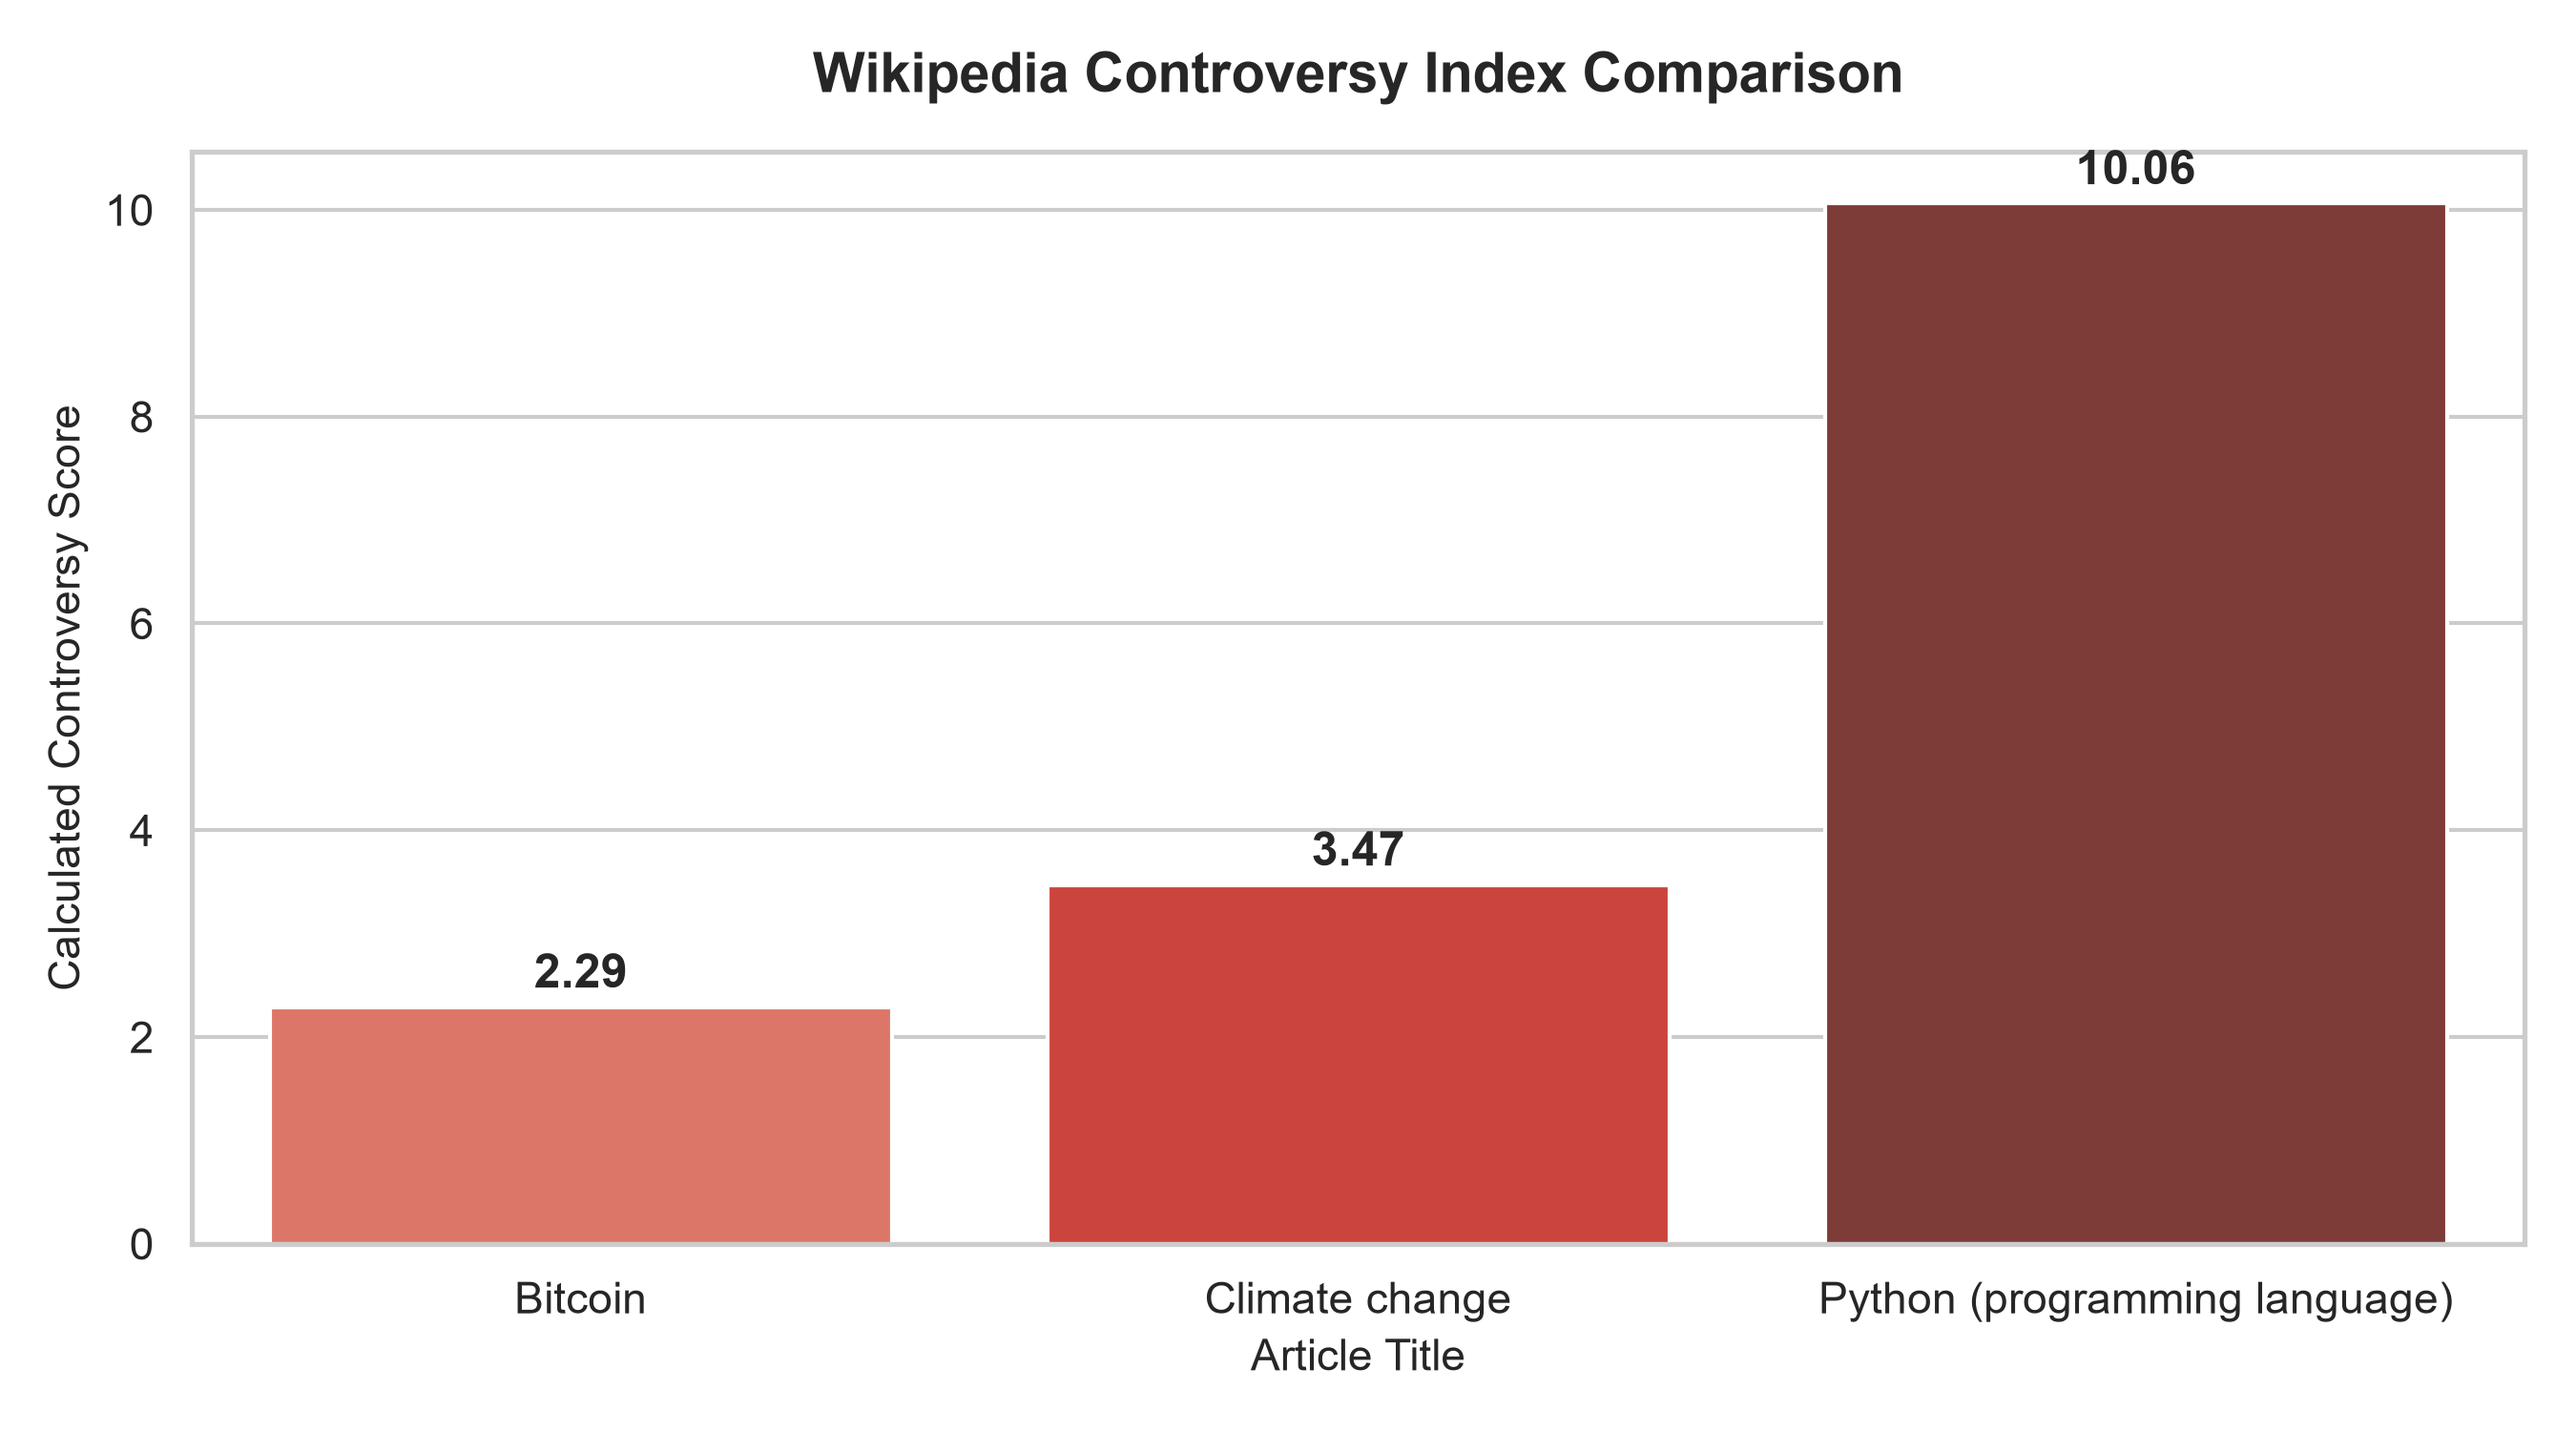
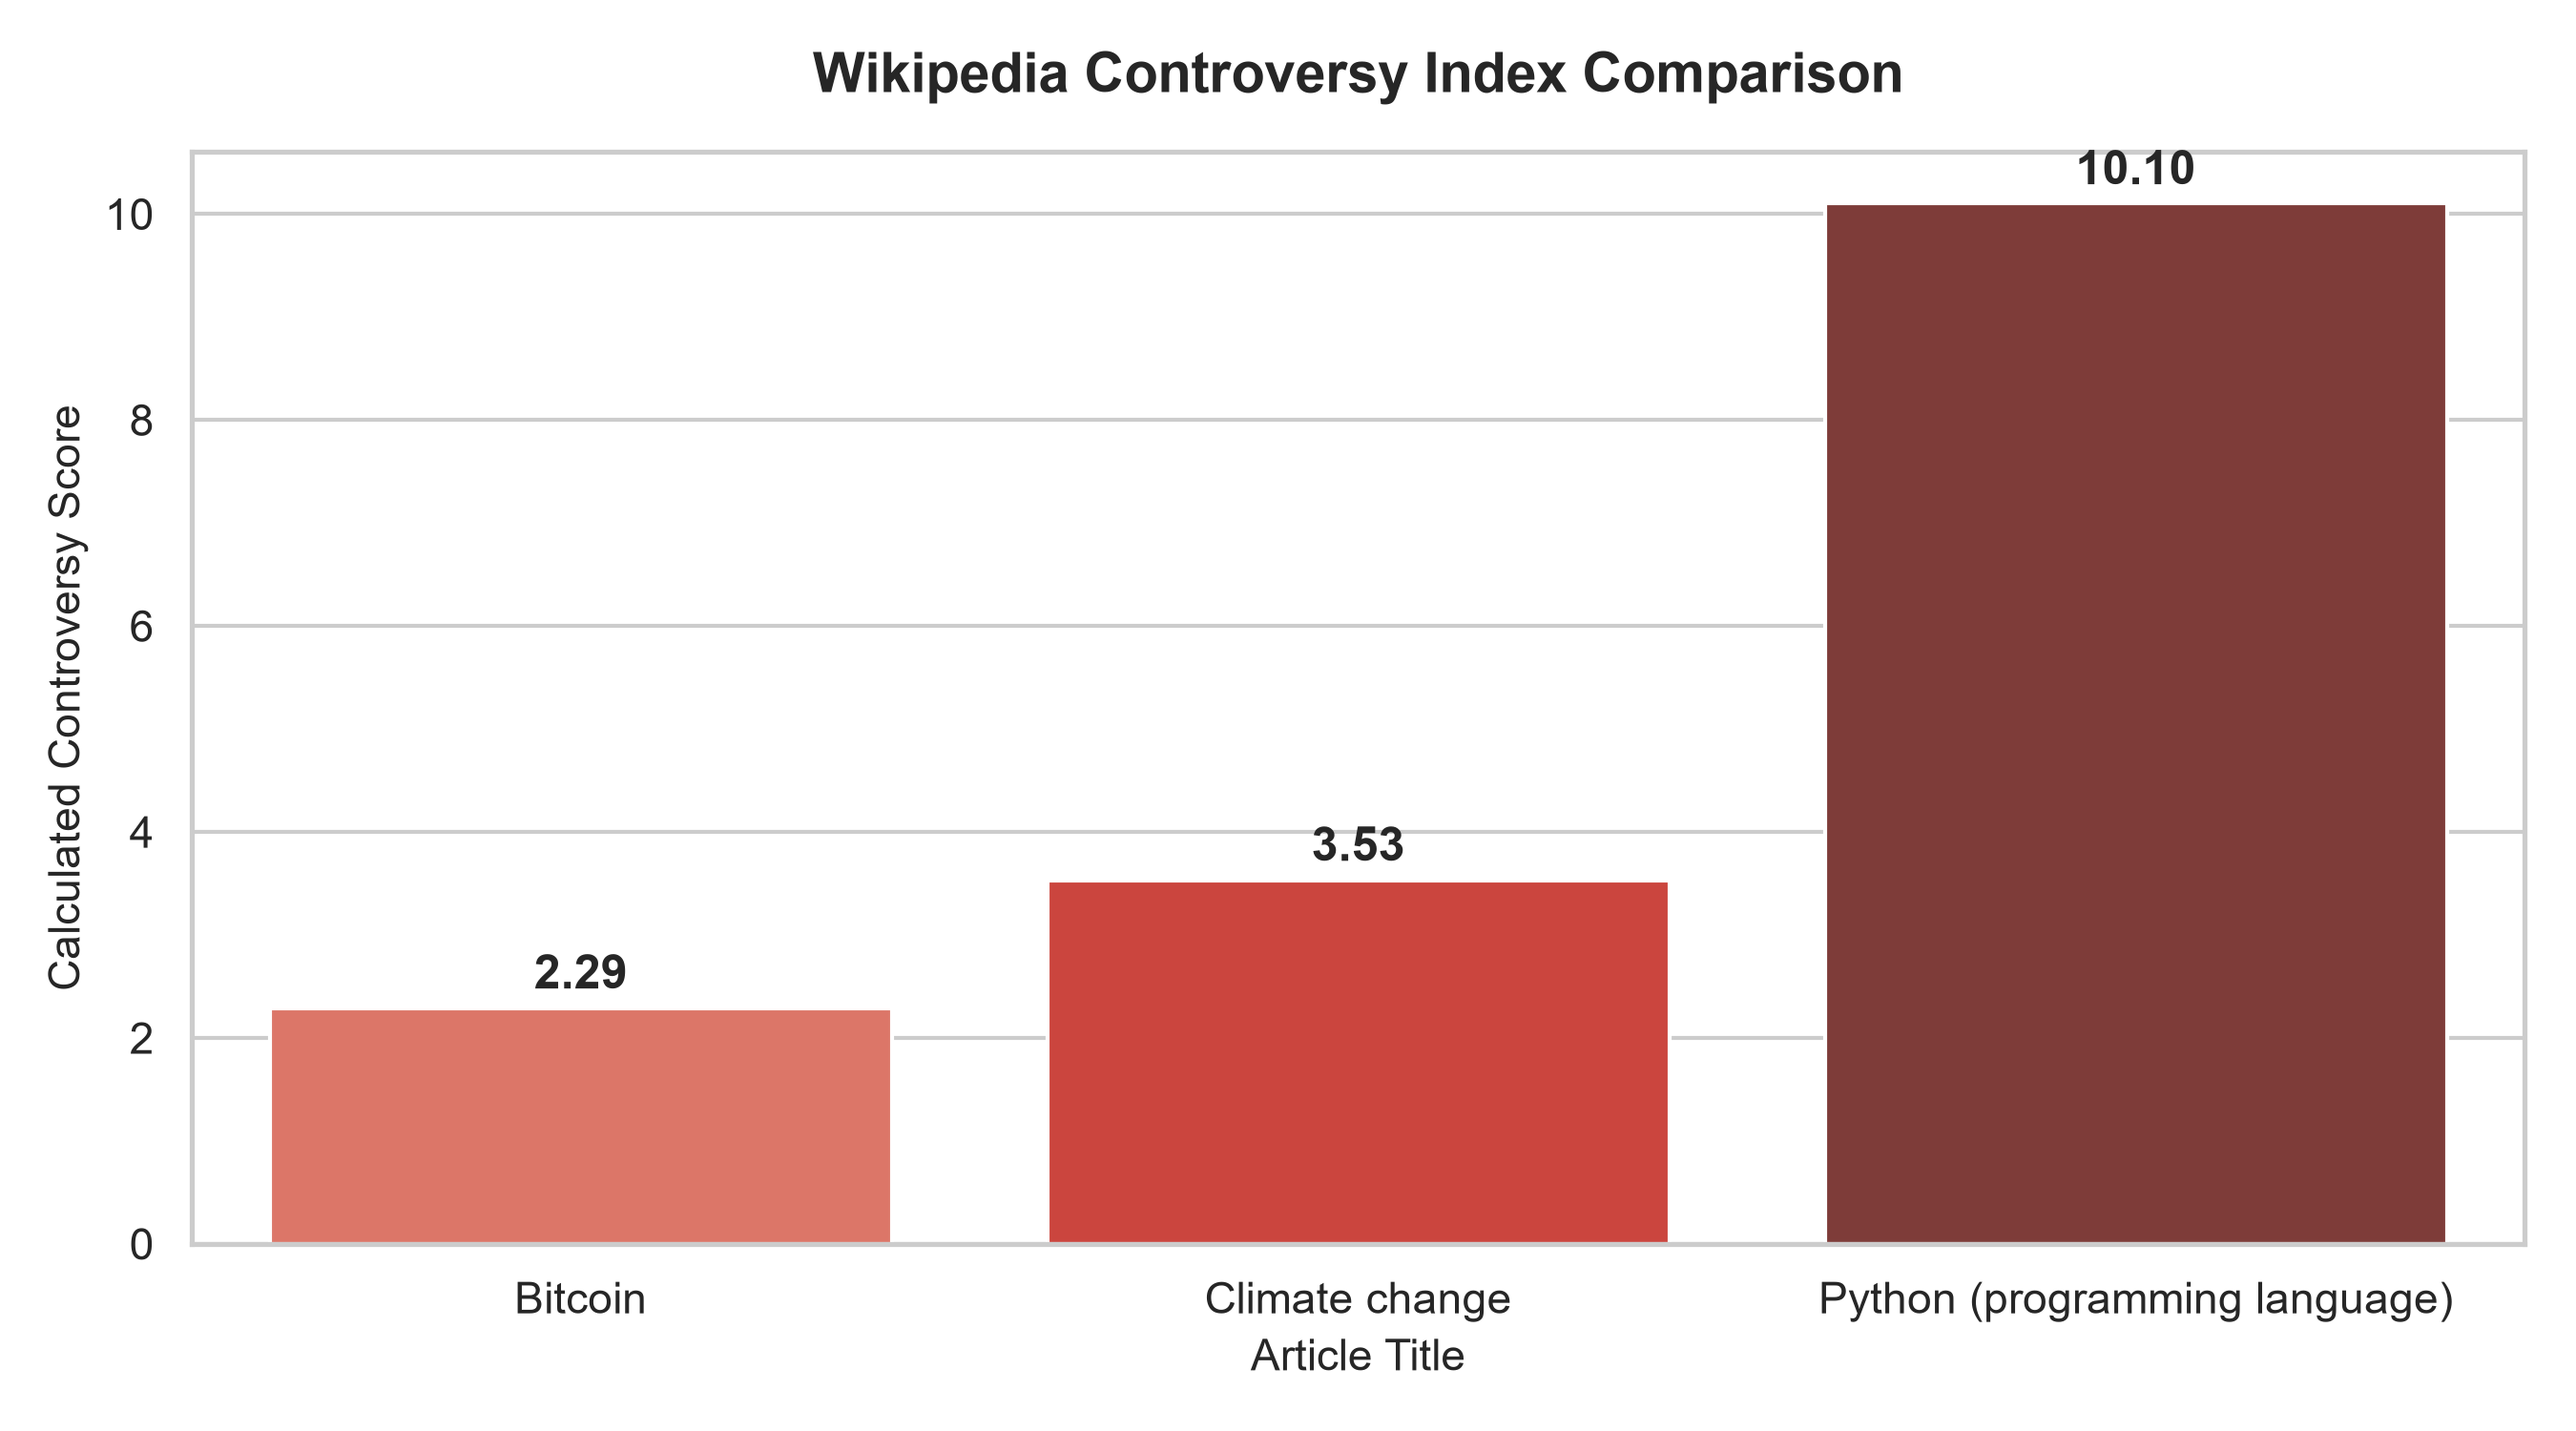
export processed controversy summary metrics to CSV

diff --git a/analysis.py b/analysis.py
@@ -73,6 +73,11 @@ summary['controversy_score'] = (summary['revert_rate'] * summary['editor_diversi
 print("\n--- CONTROVERSY INDEX SUMMARY ---")
 print(summary[['page_title', 'total_edits', 'unique_editors', 'total_reverts', 'controversy_score']])
 
+# Save summary dataset to a CSV file
+os.makedirs('data', exist_ok=True)
+summary.to_csv('data/controversy_summary.csv', index=False)
+print("Data exported successfully to 'data/controversy_summary.csv'")
+
 os.makedirs('assets', exist_ok=True)
 plt.figure(figsize=(9, 5))
 sns.set_theme(style="whitegrid")
